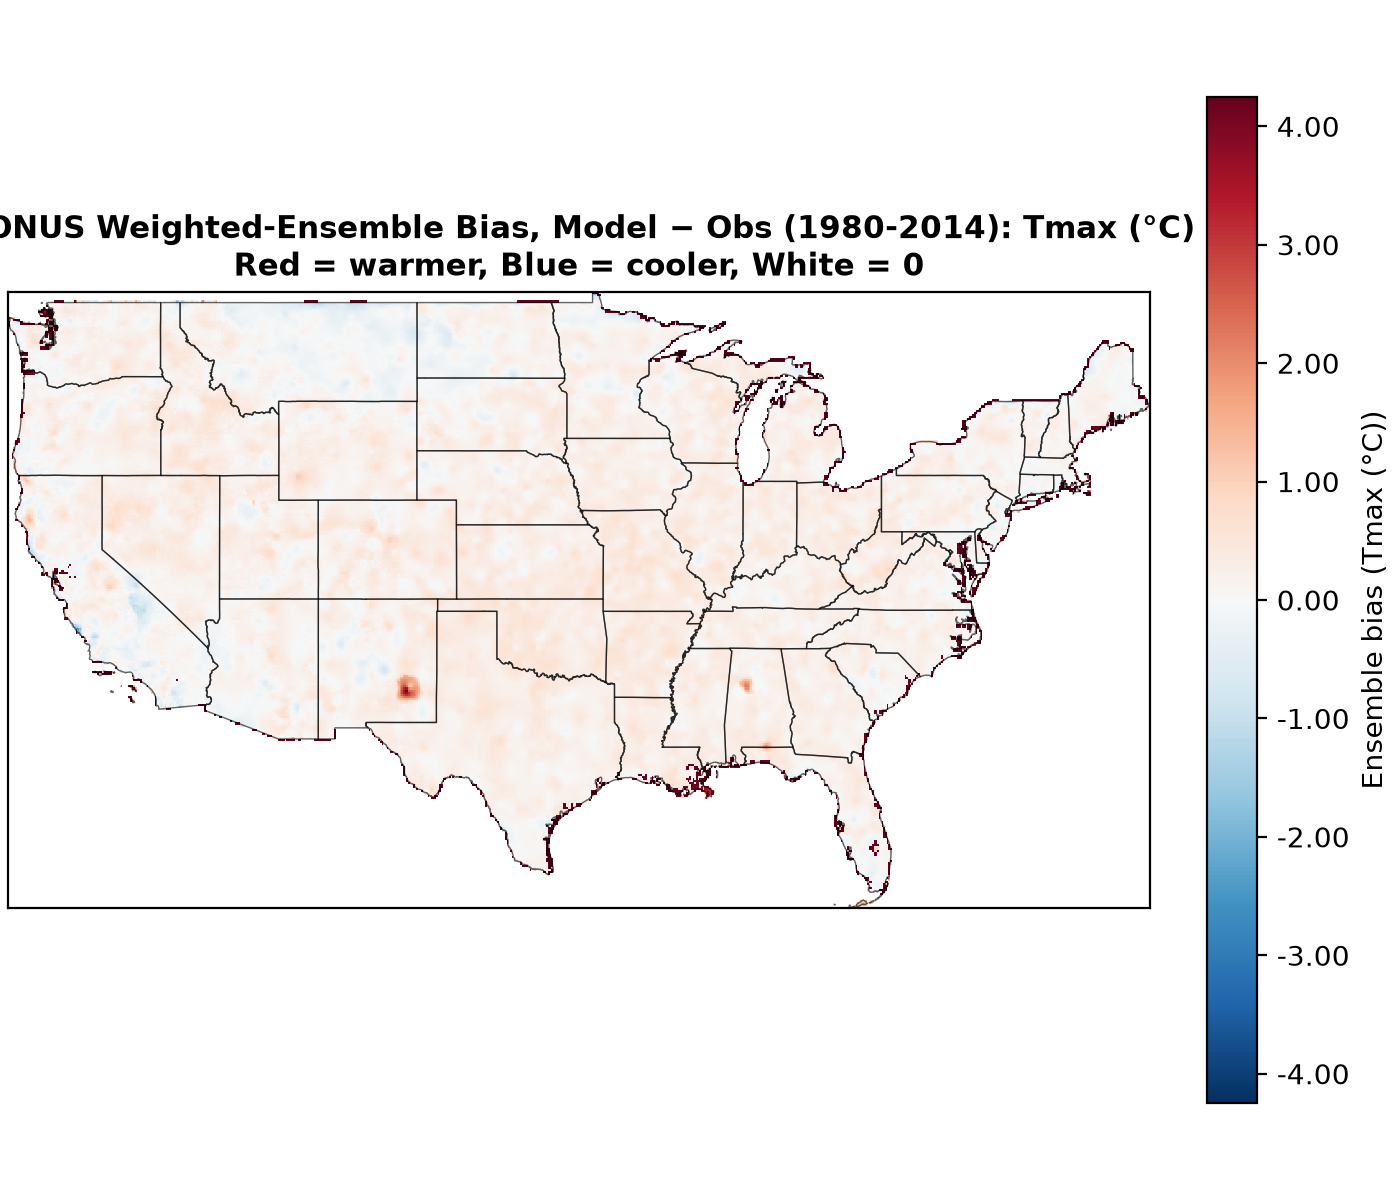
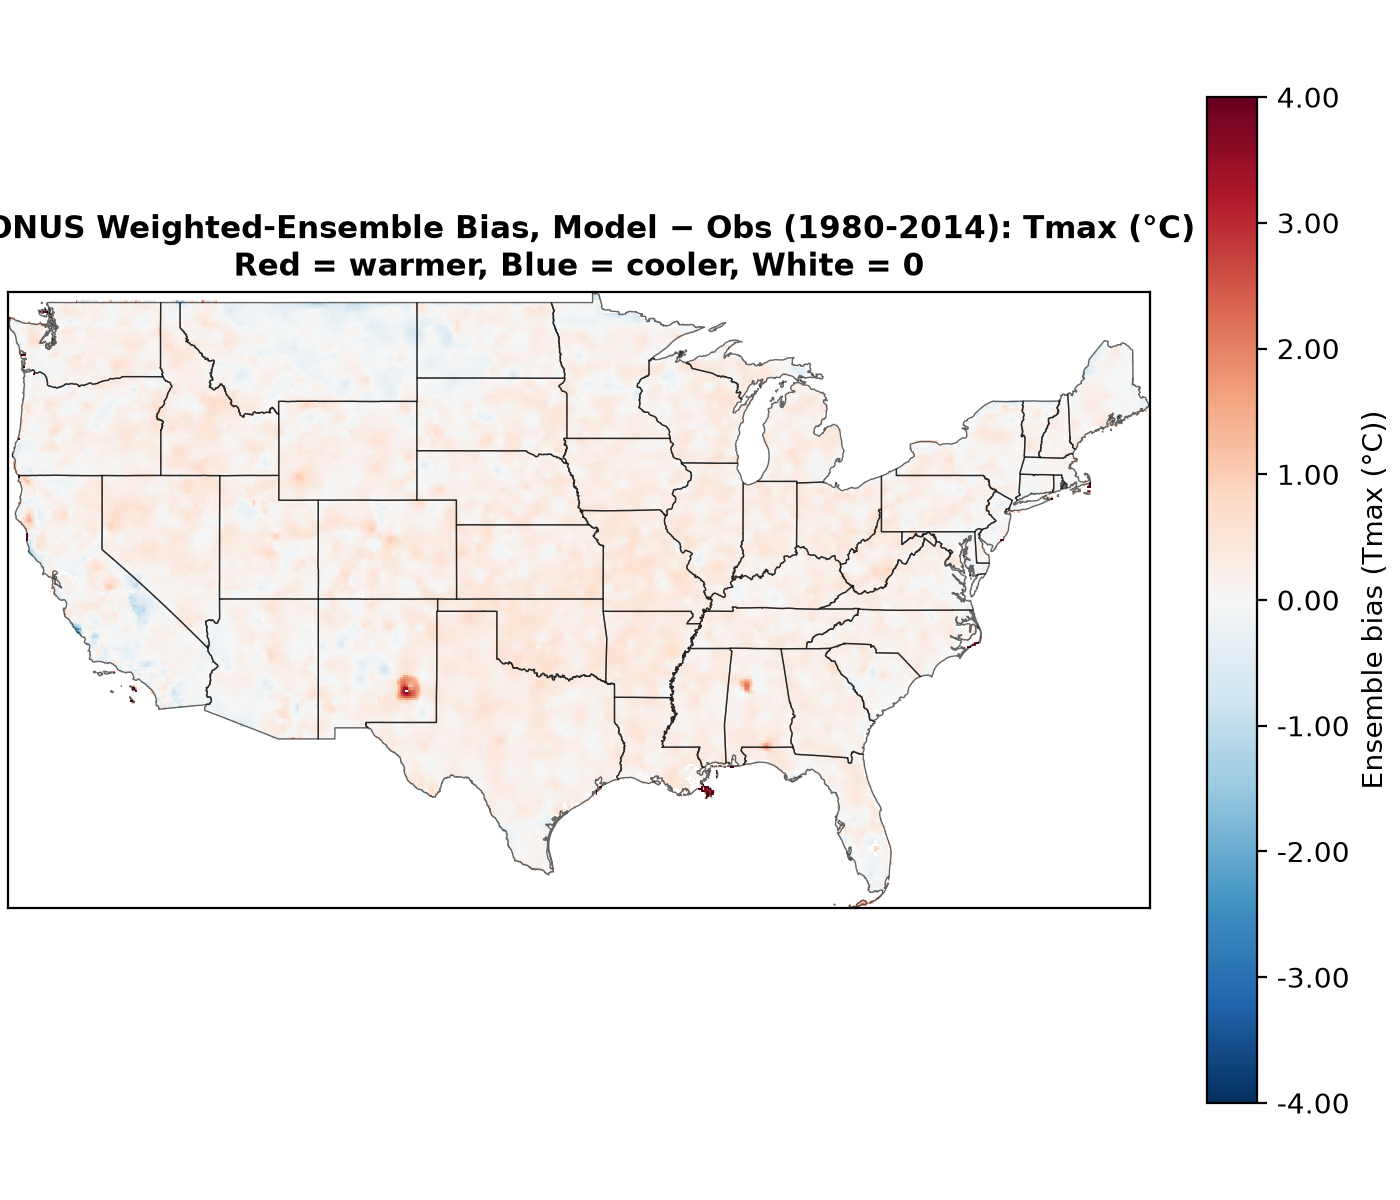
Fixed bias plots for temp and converted precip to a percentage

diff --git a/ensemble_weighted_bias_maps.py b/ensemble_weighted_bias_maps.py
@@ -50,11 +50,28 @@ variables_config = {
 VAR_LABELS = {
     "airTmax": "Tmax (\u00b0C)",
     "airTmin": "Tmin (\u00b0C)",
-    "precip": "Precip (mm/day)",
+    "precip": "Precip (%)",
 }
 
 FILL_VALUE = -9999.0
 FILL_ABS_THRESHOLD = 1e10
+
+# Fixed bias-map color scale AND hardcoded mask threshold (values beyond
+# this are set to NaN rather than shown), applied per variable. airTmax/
+# airTmin are unchanged (degC, +/-4). precip is now expressed as PERCENT
+# bias rather than mm/day (see the percent-conversion step in the main
+# loop below), so its limit is in percent, not mm/day -- adjust if you
+# want a tighter/looser cutoff than +/-100%.
+BIAS_SCALE_LIMIT = {
+    "airTmax": 4.0,
+    "airTmin": 4.0,
+    "precip": 100.0,
+}
+
+# precip cells with a historical (obs) climatology below this are excluded
+# from the percent-bias calculation -- dividing by a near-zero denominator
+# is what produces wild, physically meaningless percentages
+MIN_OBS_PRECIP_FOR_PCT = 0.1  # mm/day
 
 # ---------------------------------------------------------------------------
 # Ensemble weights (e.g. climate-sensitivity-informed weighting -- models
@@ -244,16 +261,29 @@ def compute_weighted_ensemble(data_dict, weights, label=""):
     return stacked.weighted(wgt_da).mean(dim="model", skipna=True)
 
 
+def mask_beyond_limit(bias_da, limit, label=""):
+    """Set any cell with |bias| > limit to NaN (hardcoded out, per the
+    fixed +/-limit color scale used for these plots)."""
+    n_before = int((~np.isnan(bias_da)).sum())
+    masked = bias_da.where(np.abs(bias_da) <= limit)
+    n_after = int((~np.isnan(masked)).sum())
+    if n_after < n_before:
+        tag = f" [{label}]" if label else ""
+        print(f"    [mask{tag}] excluded {n_before - n_after} cell(s) with |bias| > {limit}")
+    return masked
+
+
 def plot_bias_map(var, bias_da, region_label, state_borders, out_name):
-    """Single-panel diverging bias map (model ensemble - obs), its own
-    color scale sized to this map's own data (not shared with other maps),
-    so regional detail isn't washed out by a CONUS-wide range."""
+    """Single-panel diverging bias map (model ensemble - obs), using the
+    fixed +/-BIAS_SCALE_LIMIT[var] color scale (not auto-computed from
+    this map's own data), so every plot for a given variable is directly
+    comparable regardless of run-to-run outlier count."""
     vals = bias_da.values
     vals = vals[~np.isnan(vals)]
     if vals.size == 0:
         print(f"No valid data for {var} ({region_label}); skipping.")
         return
-    abs_max = float(np.nanpercentile(np.abs(vals), 98)) or float(np.nanmax(np.abs(vals))) or 1.0
+    abs_max = BIAS_SCALE_LIMIT[var]
     vmin, vmax = -abs_max, abs_max
 
     fig, ax = plt.subplots(figsize=(7, 6), constrained_layout=True)
@@ -284,7 +314,7 @@ def plot_bias_map(var, bias_da, region_label, state_borders, out_name):
 
 def plot_combined_bias_map(region_label, bias_dict, state_borders, out_name):
     """One figure, one panel per variable (airTmax, airTmin, precip), each
-    with its own color scale since the variables are on different units."""
+    using its own fixed +/-BIAS_SCALE_LIMIT[var] color scale."""
     var_order = [v for v in variables_config if v in bias_dict]
     fig, axes = plt.subplots(1, len(var_order), figsize=(6 * len(var_order), 6),
                               constrained_layout=True)
@@ -297,7 +327,7 @@ def plot_combined_bias_map(region_label, bias_dict, state_borders, out_name):
         if vals.size == 0:
             ax.axis('off')
             continue
-        abs_max = float(np.nanpercentile(np.abs(vals), 98)) or float(np.nanmax(np.abs(vals))) or 1.0
+        abs_max = BIAS_SCALE_LIMIT[var]
         vmin, vmax = -abs_max, abs_max
 
         mesh = ax.pcolormesh(da['lon'], da['lat'], da.values, cmap='RdBu_r',
@@ -369,6 +399,18 @@ for var, operation in variables_config.items():
 
     print(f"  Building weighted ensemble ({len(model_bias_common)} models)...")
     ensemble_bias_conus = compute_weighted_ensemble(model_bias_common, MODEL_WEIGHTS, label=var)
+
+    if var == 'precip':
+        # convert absolute bias (mm/day) to percent bias relative to obs;
+        # mathematically identical to averaging per-model percent biases
+        # first, since obs is the same fixed denominator for every model
+        # at a given cell (the weighted mean above is linear). Cells where
+        # obs is too close to zero are masked rather than left to blow up
+        # to a meaningless percentage.
+        safe_obs = obs_clim.where(obs_clim >= MIN_OBS_PRECIP_FOR_PCT)
+        ensemble_bias_conus = (ensemble_bias_conus / safe_obs) * 100
+
+    ensemble_bias_conus = mask_beyond_limit(ensemble_bias_conus, BIAS_SCALE_LIMIT[var], label=var)
 
     plot_bias_map(var, ensemble_bias_conus, "CONUS", conus_borders,
                   f"conus_{var}_bias_ensemble_weighted.png")
